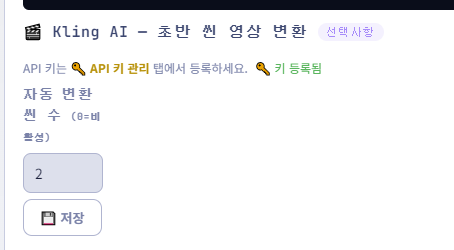
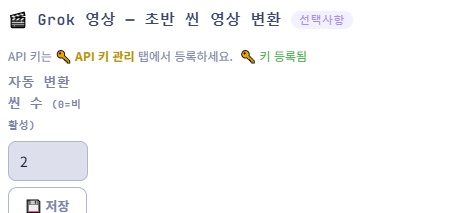
사용설명서 영상 전환 API를 Kling에서 Grok(xAI)로 변경 — 4-5 Grok API 키 발급·결제 안내 신규, 영상전환 버튼/에이전트 설정 안내 및 화면 이미지 교체

Changed region(s): [[0.0, 0.0, 1.0, 0.169], [0.0, 0.338, 0.2467, 1.0], [0.0, 0.2254, 0.7093, 0.3099]]

diff --git a/manual.html b/manual.html
@@ -50,7 +50,7 @@ p{font-size:14px;line-height:1.9;color:#ccc;margin-bottom:12px;padding:0 4px}
     <li class="sub"><a href="#sec-42-GROQ-API키-발급받기필수">4-2 GROQ API키 발급받기(필수)</a></li>
     <li class="sub"><a href="#sec-43-일레븐랩스-API키-발급받기선택">4-3 일레븐랩스 API키 발급받기(선택)</a></li>
     <li class="sub"><a href="#sec-44-유튜브-API키-발급받기필수">4-4 유튜브 API키 발급받기(필수)</a></li>
-    <li class="sub"><a href="#sec-45-Kling-AI-API키-발급받기선택">4-5 Kling AI API 키 발급 받기(선택)</a></li>
+    <li class="sub"><a href="#sec-45-Grok-API키-발급받기선택">4-5 Grok(xAI) 영상 API 키 발급 받기(선택)</a></li>
     <li><a href="#sec-5롱폼-전용프로그램-사용법">5.롱폼 전용프로그램 사용법</a></li>
     <li><a href="#sec-6쇼츠-전용프로그램-사용법">6.쇼츠 전용프로그램 사용법</a></li>
     <li><a href="#sec-7리서치센터-사용법">7.리서치센터 사용법</a></li>
@@ -110,7 +110,7 @@ p{font-size:14px;line-height:1.9;color:#ccc;margin-bottom:12px;padding:0 4px}
 <h2 id="sec-4API키-관리-탭-설정">4.API키 관리 탭 설정</h2>
 <p>프로그램 설치를 마치셨다면 필수로 3가지를 설정 하시면 바로 유튜브 영상 제작이 가능합니다. 바로 3가지 api 발급받기입니다. 4-1 OPENAI API키 발급 , 4-2 GROQ API키 발급 , 4-4 유튜브 API키 발급  이 3가지를 필수로 발급받아 프로그램내에 저장해서 보관하세요. 그러면 소재 발굴부터 대본, 이미지, 음성더빙, 자막, 랜더링까지 모두 다 할 수 있습니다. 음성 더빙은 기본값인 Edge TTS가 무료이며 키가 필요 없습니다.</p>
 <div class="img-wrap"><img src="imgs/n_apikey_long.png" loading="lazy" alt="API키 관리 탭 - 롱폼"></div>
-<p>위 화면은 롱폼 프로그램의 API키 관리 탭입니다. OpenAI API는 대본·이미지·썸네일·음성에 모두 쓰는 필수 키이고, Groq API는 자막 분할을 돕는 무료 필수 키입니다. ElevenLabs와 Kling AI는 선택 사항입니다. 쇼츠 프로그램도 같은 구성입니다.</p>
+<p>위 화면은 롱폼 프로그램의 API키 관리 탭입니다. OpenAI API는 대본·이미지·썸네일·음성에 모두 쓰는 필수 키이고, Groq API는 자막 분할을 돕는 무료 필수 키입니다. ElevenLabs와 Grok 영상 API(xAI)는 선택 사항입니다. 쇼츠 프로그램도 같은 구성입니다.</p>
 <div class="img-wrap"><img src="imgs/n_apikey_shorts.png" loading="lazy" alt="API키 관리 탭 - 쇼츠"></div>
 <h3 id="sec-41-OPENAI-API키-발급받기필수">4-1 OPENAI API키 발급받기(필수)</h3>
 <div style="margin:0 0 1.5rem 0;padding:1rem 1.4rem;background:rgba(251,146,60,0.08);border:1.5px solid rgba(251,146,60,0.4);border-radius:10px;">
@@ -218,30 +218,42 @@ p{font-size:14px;line-height:1.9;color:#ccc;margin-bottom:12px;padding:0 4px}
 <p>자 이제 유튜브 API 키가 생성되었습니다. 복사버튼을 눌러 NOBLE ARC 프로그램에 입력 저장해놓으시면 됩니다. 그래도 따로 보관해놓으시길 권장드립니다.</p>
 <div class="img-wrap"><img src="imgs/image79.png" loading="lazy" alt="스크린샷"></div>
 <p>유튜브 API키는 다른 API키와는 다르게 리서치센터에 저장공간이 따로 있습니다. 여기서 키를 관리하시면 됩니다. 리서치센터 전용 API키입니다.</p>
-<h3 id="sec-45-Kling-AI-API키-발급받기선택">4-5 Kling AI API 키 발급 받기(선택) <span style="font-size:0.75em;color:#a78bfa;font-weight:600;background:rgba(167,139,250,0.12);padding:2px 10px;border-radius:20px;vertical-align:middle;">선택사항</span></h3>
+<h3 id="sec-45-Grok-API키-발급받기선택">4-5 Grok(xAI) 영상 API 키 발급 받기(선택) <span style="font-size:0.75em;color:#a78bfa;font-weight:600;background:rgba(167,139,250,0.12);padding:2px 10px;border-radius:20px;vertical-align:middle;">선택사항</span></h3>
 <div style="margin:0 0 1.5rem 0;padding:1rem 1.4rem;background:rgba(251,146,60,0.08);border:1.5px solid rgba(251,146,60,0.4);border-radius:10px;">
   <p style="margin:0;color:#fb923c;font-size:13.5px;font-weight:600;line-height:1.8;">이 API키 발급은 유료 선택사항입니다. 별도로 각 해당 사이트에서 별도 결제하셔서 이용하시는 사항입니다. 참고하시고 이용하시기 바랍니다.</p>
 </div>
-<p>Kling AI API 키는 NOBLE ARC 씬편집기에서 이미지를 즉석에서 영상으로 전환하는 기능을 사용하기 위해 필요합니다. 선택사항이며, 사용을 원하시는 분만 발급받으시면 됩니다.</p>
-<p>먼저 개발자용 콘솔로 이동합니다:</p>
-<p>👉 <strong>https://app.klingai.com/global/dev</strong></p>
-<p>여기서 로그인 또는 회원가입을 진행하세요. (Google / Apple / 이메일 가능)</p>
-<div class="img-wrap"><img src="imgs/image194.png" loading="lazy" alt="스크린샷"></div>
-<p>Kling AI 개발자 플랫폼 메인 화면입니다. 우측 상단의 <strong>Sign In</strong> 버튼을 클릭하여 회원가입 또는 로그인을 진행합니다.</p>
-<div class="img-wrap"><img src="imgs/image195.png" loading="lazy" alt="스크린샷"></div>
-<p>로그인 후 메인 화면으로 돌아오면 중앙에 <strong>Go to Console</strong> 버튼이 있습니다. 해당 버튼을 클릭합니다.</p>
-<div class="img-wrap"><img src="imgs/image196.png" loading="lazy" alt="스크린샷"></div>
-<p>처음 접속하면 Kling AI Developer Console 환영 화면이 뜹니다. 하단의 <strong>Get Started</strong> 버튼을 클릭하여 시작합니다.</p>
-<div class="img-wrap"><img src="imgs/image197.png" loading="lazy" alt="스크린샷"></div>
-<p>API Keys 관리 화면입니다. 우측 상단에 있는 <strong>+ Create a new API Key</strong> 버튼을 클릭합니다.</p>
-<div class="img-wrap"><img src="imgs/image198.png" loading="lazy" alt="스크린샷"></div>
-<p>키 생성 팝업이 뜨면 관리하기 편한 아무 이름이나 입력한 후 <strong>Confirm</strong> 버튼을 클릭합니다.</p>
-<div class="img-wrap"><img src="imgs/image199.png" loading="lazy" alt="스크린샷"></div>
-<p>API 키가 생성되면 <strong>Access Key</strong>와 <strong>Secret Key</strong>가 표시됩니다. <strong>Copy All</strong> 버튼을 눌러 키를 복사한 후 반드시 따로 보관해 주세요. Secret Key는 이 화면에서만 확인 가능하며 이후에는 다시 볼 수 없습니다. 복사한 키를 NOBLE ARC 프로그램의 API 키 입력란에 붙여넣기 하시면 됩니다.</p>
-<div class="img-wrap"><img src="imgs/image200.png" loading="lazy" alt="스크린샷"></div>
-<p>API 키를 발급받으셨다면 이제 요금제 결제가 필요합니다. 메인 화면에서 상단의 <strong>Pricing</strong> 버튼을 클릭합니다.</p>
-<div class="img-wrap"><img src="imgs/image201.png" loading="lazy" alt="스크린샷"></div>
-<p>요금제 선택 화면입니다. 처음 이용하시는 분은 <strong>Trial Package $9.8 (100유닛)</strong> 가장 낮은 요금제를 추천드립니다. 원하시는 요금제를 선택하여 결제하시면 그때부터 바로 사용 가능합니다.</p>
+<p>Grok(xAI) 영상 API 키는 NOBLE ARC 씬편집기에서 이미지를 즉석에서 영상으로 전환하는 기능(롱폼·쇼츠 공통)과, 롱폼 AI 에이전트의 초반 씬 자동 영상 변환 기능을 사용하기 위해 필요합니다. 선택사항이며, 사용을 원하시는 분만 발급받으시면 됩니다. 영상은 씬(음성) 길이에 맞춰 자동으로 생성됩니다.</p>
+<p>먼저 구글에서 <strong>grok api</strong>를 검색합니다.</p>
+<div class="img-wrap"><img src="imgs/grok_api_01.png" loading="lazy" alt="grok api 구글 검색"></div>
+<p>검색 결과 맨 위에 나오는 xAI 공식 사이트(<strong>https://x.ai/api</strong>)를 클릭합니다.</p>
+<div class="img-wrap"><img src="imgs/grok_api_02.png" loading="lazy" alt="grok api 검색 결과"></div>
+<p>xAI API 소개 화면입니다. 왼쪽의 <strong>Get your API key</strong> 버튼을 클릭합니다.</p>
+<div class="img-wrap"><img src="imgs/grok_api_03.png" loading="lazy" alt="Get your API key 버튼"></div>
+<p>로그인 화면이 나오면 Google, X, Apple, GitHub 계정 중 편하신 방법으로 로그인하거나 이메일로 가입합니다. 처음이시라면 하단의 Sign up으로 회원가입을 먼저 진행하시면 됩니다.</p>
+<div class="img-wrap"><img src="imgs/grok_api_04.png" loading="lazy" alt="xAI 로그인 화면"></div>
+<p>구글 계정으로 진행하는 경우 사용하실 계정을 선택해 주시면 됩니다.</p>
+<div class="img-wrap"><img src="imgs/grok_api_05.png" loading="lazy" alt="구글 계정 선택"></div>
+<p>로그인이 끝나면 xAI 콘솔(console.x.ai) 대시보드가 열립니다. 왼쪽 메뉴의 <strong>API Keys</strong>를 클릭하거나, 오른쪽 위의 <strong>Create API key</strong> 버튼을 클릭하면 됩니다.</p>
+<div class="img-wrap"><img src="imgs/grok_api_06.png" loading="lazy" alt="xAI 콘솔 대시보드"></div>
+<p>API keys 화면입니다. 오른쪽 위의 <strong>Create API key</strong> 버튼을 클릭합니다.</p>
+<div class="img-wrap"><img src="imgs/grok_api_07.png" loading="lazy" alt="API keys 화면"></div>
+<p>키 이름을 입력하는 창이 뜨면 관리하기 편한 아무 이름이나 입력한 후 <strong>Create API key</strong> 버튼을 클릭합니다.</p>
+<div class="img-wrap"><img src="imgs/grok_api_08.png" loading="lazy" alt="API 키 이름 입력"></div>
+<p>이름 아래의 <strong>Advanced settings</strong>를 펼치면 사용할 모델·엔드포인트 제한, 분당 사용량 제한, 만료일을 정할 수 있습니다. 특별한 이유가 없다면 기본값(All models / All endpoints / No expiry) 그대로 두고 생성하시면 됩니다.</p>
+<div class="img-wrap"><img src="imgs/grok_api_09.png" loading="lazy" alt="Advanced settings"></div>
+<p>API 키가 생성되었습니다. 이 화면에서만 키 전체를 확인할 수 있으며 닫으면 다시 볼 수 없습니다. <strong>Copy API Key</strong> 버튼을 눌러 키를 복사한 후 반드시 따로 보관해 주세요. 복사한 키를 NOBLE ARC 프로그램의 <strong>API 키 관리</strong> 탭 → <strong>Grok 영상 API (xAI)</strong> 칸에 붙여넣고 저장하시면 됩니다.</p>
+<div class="img-wrap"><img src="imgs/grok_api_10.png" loading="lazy" alt="API 키 복사"></div>
+<p>만들어 둔 키는 API keys 목록에서 확인할 수 있습니다. 오른쪽 점 세 개 메뉴에서 키를 일시 중지(Disable)하거나 새로 교체(Rotate), 삭제(Delete)할 수 있으니 키가 유출되었다고 의심되면 바로 삭제하고 새 키를 발급받으세요.</p>
+<div class="img-wrap"><img src="imgs/grok_api_11.png" loading="lazy" alt="API 키 목록 및 관리 메뉴"></div>
+<p>API 키를 발급받으셨다면 이제 크레딧 충전(결제)이 필요합니다. 콘솔 화면 왼쪽 맨 아래에 남은 크레딧이 표시된 버튼이 있습니다. 이 버튼을 클릭합니다.</p>
+<div class="img-wrap"><img src="imgs/grok_api_12.png" loading="lazy" alt="크레딧 결제 버튼"></div>
+<p>Billing(결제) 화면입니다. 현재 남은 크레딧을 확인할 수 있고, <strong>Add credits</strong> 버튼으로 크레딧을 충전합니다. 결제 카드는 <strong>Add payment method</strong>로 등록합니다. <strong>Manage auto top-up</strong>을 켜 두면 잔액이 정한 금액 이하로 떨어질 때 자동으로 충전되므로, 원하지 않으시면 설정을 꼭 확인하세요.</p>
+<div class="img-wrap"><img src="imgs/grok_api_13.png" loading="lazy" alt="Billing 화면"></div>
+<p>결제 수단 등록 창입니다. 카드 번호, 유효기간, CVC를 입력하고 국가를 선택한 후 <strong>Add</strong> 버튼을 클릭합니다.</p>
+<div class="img-wrap"><img src="imgs/grok_api_14.png" loading="lazy" alt="결제 수단 추가"></div>
+<p>충전할 금액을 선택합니다. $5 / $10 / $20 중에서 고르거나 원하는 금액을 직접 입력할 수 있습니다. 창 아래쪽에 선택한 금액으로 사용할 수 있는 대략적인 분량(예: $5는 영상 약 2.8분)이 안내됩니다. 처음 이용하시는 분은 가장 낮은 금액인 $5로 먼저 테스트해 보시길 추천드립니다. 금액을 정하고 하단의 결제 버튼을 누르면 충전이 완료되고 바로 사용할 수 있습니다.</p>
+<div class="img-wrap"><img src="imgs/grok_api_15.png" loading="lazy" alt="크레딧 충전"></div>
+<p>키 저장 후에는 <strong>연결 테스트</strong> 버튼으로 키가 정상인지 확인할 수 있습니다. 이후 씬편집기의 <strong>Grok 영상전환</strong> 버튼을 누르면 해당 씬의 이미지가 영상으로 변환되며, 롱폼 AI 에이전트에서는 <strong>초반 씬 영상 변환</strong>의 자동 변환 씬 수를 설정하시면 됩니다.</p>
 <h2 id="sec-5롱폼-전용프로그램-사용법">5.롱폼 전용프로그램 사용법</h2>
 <p>지금부터 NOBLE ARC 롱폼 유튜브 자동화 프로그램 사용법에 대해서 자세히 설명드리겠습니다.</p>
 <p>저희 NOBLE ARC 롱폼 유튜브 자동화 프로그램은 상당히 직관적이고 단순한 인터페이스를 가지고 있어서 조금만 사용하셔도 금방 익숙해지실 수 있습니다. 그러면서도 많은 기능을 담고 있습니다. 타사 대비 더 많은 기능을 가지고 있는 프로그램입니다. 지금 부터 시작합니다.</p>
@@ -525,7 +537,7 @@ p{font-size:14px;line-height:1.9;color:#ccc;margin-bottom:12px;padding:0 4px}
   <li>가운데 모델 선택 드롭다운(예: Video 1.5 Pro)과 오른쪽 <strong>영상 길이</strong>(예: 12초)를 원하시는 대로 설정합니다.</li>
   <li>입력창에 영상 프롬프트(씬편집기에서 자동 복사된 프롬프트를 붙여넣기)를 넣고 전송 버튼을 누르면 영상 생성이 시작됩니다.</li>
 </ul>
-<p>생성이 완료되면 Library 탭에서 영상을 다운로드하신 후, NOBLE ARC 씬편집기의 <strong>업로드</strong> 버튼으로 등록하시면 됩니다. Kling API처럼 별도 API 키 발급이나 결제 없이도 무료로 이미지를 영상으로 전환하고 싶으신 분들께 추천드리는 방법입니다.</p>
+<p>생성이 완료되면 Library 탭에서 영상을 다운로드하신 후, NOBLE ARC 씬편집기의 <strong>업로드</strong> 버튼으로 등록하시면 됩니다. Grok API처럼 별도 API 키 발급이나 결제 없이도 무료로 이미지를 영상으로 전환하고 싶으신 분들께 추천드리는 방법입니다.</p>
 <p>여기까지 NOBLE ARC 유튜브 자동화 쇼츠 전용 프로그램에 대한 사용법 설명을 마치겠습니다.</p>
 <h2 id="sec-7리서치센터-사용법">7.리서치센터 사용법</h2>
 <div class="img-wrap"><img src="imgs/image142.png" loading="lazy" alt="스크린샷"></div>
@@ -695,24 +707,24 @@ p{font-size:14px;line-height:1.9;color:#ccc;margin-bottom:12px;padding:0 4px}
 <p>각자 사용하시는 영상 제작 AI 서비스가 있다면 그것을 이용하시거나 제가 추천드리는 서비스를 이용하시면 될거 같습니다.</p>
 <p><strong>🎥 이미지-투-비디오 구독 서비스 가성비 Top 5</strong></p>
 <ul>
-  <li><strong>1. Kling AI</strong> — NOBLE ARC 프로그램과 API 직접 연동 지원. 트라이얼 패키지 $9.8(100유닛)부터 시작 가능. 자연스러운 움직임과 높은 프롬프트 이해력이 특징이며 가성비가 뛰어납니다.</li>
+  <li><strong>1. Grok Imagine (xAI)</strong> — NOBLE ARC 프로그램과 API 직접 연동 지원. 크레딧을 선불로 충전해 쓰는 방식이며 영상 길이(초)만큼 과금됩니다. 자연스러운 움직임이 특징이며 씬 길이에 맞춰 영상이 생성됩니다.</li>
   <li><strong>2. Runway</strong> — Gen-3 Alpha 모델 탑재. 월 $15 Standard 플랜부터 이용 가능. 안정적인 품질과 직관적인 편집 인터페이스를 제공합니다.</li>
   <li><strong>3. Pika Labs</strong> — 월 $8부터 시작하는 저렴한 요금제. 빠른 생성 속도와 간단한 사용법으로 입문자에게 적합합니다.</li>
   <li><strong>4. Luma AI (Dream Machine)</strong> — 사실적인 영상 품질이 장점. 월 $29.99 플랜 제공. 일부 무료 크레딧으로 먼저 체험해 볼 수 있습니다.</li>
   <li><strong>5. Hailuo AI (MiniMax)</strong> — 무료 크레딧 제공으로 초기 비용 없이 체험 가능. 합리적인 가격대로 부담 없이 시작할 수 있습니다.</li>
 </ul>
-<p>위의 서비스들은 그나마 저렴한 영상 제작 도구입니다. 이미지를 영상으로 전환해주는 기능이 있습니다. NOBLE ARC 유튜브 자동화 프로그램은 씬편집기에서 kling 영상전환 버튼을 누르면 이미지가 바로 즉석에서 영상으로 변환되는 기능을 지원하고 있습니다. 이 기능을 사용하고자 하신다면 kling ai api 키를 따로 발급받으셔야 합니다. 단 선택사항이며 해당 사이트에서 별도로 유료요금제에 가입하셔야 사용하실 수 있습니다. kling ai api 키를 발급 받는 방법은 4번 섹션 api키 관리 탭 설정 설명서를 참고하시기 바랍니다. 하지만 API를 이용해서 영상으로 전환하는 것보다 프로그램에서 생성된 이미지를 사이트에서 직접 영상으로 전환하여 NOBLE ARC 프로그램에 재업로드 하시는 방식이 가장 저렴합니다. 비용부분 때문에라도 이렇게 안내를 먼저 해드리고 있습니다.</p>
+<p>위의 서비스들은 그나마 저렴한 영상 제작 도구입니다. 이미지를 영상으로 전환해주는 기능이 있습니다. NOBLE ARC 유튜브 자동화 프로그램은 씬편집기에서 Grok 영상전환 버튼을 누르면 이미지가 바로 즉석에서 영상으로 변환되는 기능을 지원하고 있습니다. 이 기능을 사용하고자 하신다면 Grok(xAI) 영상 API 키를 따로 발급받으셔야 합니다. 단 선택사항이며 xAI 사이트에서 별도로 크레딧을 충전하셔야 사용하실 수 있습니다. Grok API 키를 발급 받는 방법은 4번 섹션 api키 관리 탭 설정 설명서(4-5)를 참고하시기 바랍니다. 하지만 API를 이용해서 영상으로 전환하는 것보다 프로그램에서 생성된 이미지를 사이트에서 직접 영상으로 전환하여 NOBLE ARC 프로그램에 재업로드 하시는 방식이 가장 저렴합니다. 비용부분 때문에라도 이렇게 안내를 먼저 해드리고 있습니다.</p>
 
-<h3 style="font-size:17px;border-left:3px solid #7c4dff;background:rgba(124,77,255,.08);color:#b39ddb;margin-top:40px;">🎥 영상 프롬프트 생성 기능 (Kling 영상전환 연동)</h3>
-<p>씬편집기에는 <strong>영상 프롬프트</strong>라는 별도 입력란이 이미지 프롬프트 바로 아래에 있습니다. 이 영상 프롬프트는 대본 내용을 반영하면서 카메라무빙(팬, 틸트, 줌, 트래킹 등)과 화면 속 움직임·변화가 풍부하게 들어가도록 AI가 자동으로 작성해주는 문구입니다. 이 프롬프트가 <strong>Kling 영상전환 버튼을 누를 때 실제로 그대로 사용</strong>되어, 더 자연스럽고 역동적인 움직임의 영상이 만들어집니다.</p>
+<h3 style="font-size:17px;border-left:3px solid #7c4dff;background:rgba(124,77,255,.08);color:#b39ddb;margin-top:40px;">🎥 영상 프롬프트 생성 기능 (Grok 영상전환 연동)</h3>
+<p>씬편집기에는 <strong>영상 프롬프트</strong>라는 별도 입력란이 이미지 프롬프트 바로 아래에 있습니다. 이 영상 프롬프트는 대본 내용을 반영하면서 카메라무빙(팬, 틸트, 줌, 트래킹 등)과 화면 속 움직임·변화가 풍부하게 들어가도록 AI가 자동으로 작성해주는 문구입니다. 이 프롬프트가 <strong>Grok 영상전환 버튼을 누를 때 실제로 그대로 사용</strong>되어, 더 자연스럽고 역동적인 움직임의 영상이 만들어집니다.</p>
 <p>영상 프롬프트를 만드는 버튼은 두 가지입니다.</p>
-<div class="img-wrap"><img src="imgs/kling_video_prompt_buttons.png" loading="lazy" alt="영상 프롬프트 생성 버튼 - 전체 씬 및 개별 씬"></div>
+<div class="img-wrap"><img src="imgs/grok_video_prompt_buttons.png" loading="lazy" alt="영상 프롬프트 생성 버튼 - 전체 씬 및 개별 씬"></div>
 <ul>
   <li><strong>전체 씬 영상 프롬프트 생성</strong> (화면 상단) — 여러 씬을 한꺼번에 영상으로 전환하실 계획이라면 이 버튼을 눌러 모든 씬의 영상 프롬프트를 한 번에 생성하세요.</li>
   <li><strong>영상 프롬프트 생성</strong> (각 씬 카드 하단) — 몇몇 씬만 골라서 영상으로 전환하실 경우, 해당 씬에서만 개별로 버튼을 눌러 생성하시면 됩니다.</li>
 </ul>
-<p>버튼을 누르지 않고 바로 <strong>Kling 영상전환</strong> 버튼을 눌러도 괜찮습니다 — 영상 프롬프트가 비어있으면 변환 시점에 자동으로 생성되어 사용됩니다. 물론 미리 생성해서 내용을 직접 확인하거나 수정하고 싶으신 분들을 위해 두 버튼을 별도로 제공해드리고 있습니다.</p>
-<p>또한 이 영상 프롬프트는 이미지 프롬프트와 마찬가지로 화면에 그대로 표시되기 때문에, Kling API를 사용하지 않고 <strong>FLOW·Google Vids·RUNWAY 등 외부 영상 제작 사이트에서 직접 영상을 만드실 때도 복사해서 활용</strong>하실 수 있습니다.</p>
+<p>버튼을 누르지 않고 바로 <strong>Grok 영상전환</strong> 버튼을 눌러도 괜찮습니다 — 영상 프롬프트가 비어있으면 변환 시점에 자동으로 생성되어 사용됩니다. 물론 미리 생성해서 내용을 직접 확인하거나 수정하고 싶으신 분들을 위해 두 버튼을 별도로 제공해드리고 있습니다.</p>
+<p>또한 이 영상 프롬프트는 이미지 프롬프트와 마찬가지로 화면에 그대로 표시되기 때문에, Grok API를 사용하지 않고 <strong>FLOW·Google Vids·RUNWAY 등 외부 영상 제작 사이트에서 직접 영상을 만드실 때도 복사해서 활용</strong>하실 수 있습니다.</p>
 
 <div class="img-wrap"><img src="imgs/image185.png" loading="lazy" alt="스크린샷"></div>
 <p>제가 이용하는 서비스는 FLOW 입니다. 이 서비스도 꽤 괜찮습니다 특히 제미나이 AI 유료모델을 구독중이시라면 제공되는 크레딧을 이용하시면 FLOW에서 많은 영상을 제작하실 수 있습니다.</p>
@@ -748,7 +760,7 @@ p{font-size:14px;line-height:1.9;color:#ccc;margin-bottom:12px;padding:0 4px}
 </ul>
 <p>YouTube API 할당량과 관련하여 중요한 사항을 안내드립니다. 구글에서 제공하는 YouTube API는 하루 사용량에 제한이 있으며, 1개의 구글 계정으로는 5개 이하의 채널 운영을 권장합니다. 또한 채널당 하루 업로드 횟수는 5회 이내로 설정하시는 것이 안정적입니다. 이 기준을 초과하면 API 할당량이 소진되어 업로드가 일시 중단될 수 있으니 참고하시기 바랍니다.</p>
 <div class="img-wrap"><img src="imgs/image205.png" loading="lazy" alt="스크린샷"></div>
-<p>Kling AI를 이용한 초반 씬 영상 변환 기능은 선택 사항입니다. 이 기능을 사용하시려면 목차 4-5번의 Kling AI API 키 발급 안내를 먼저 참고하시기 바랍니다. 초반 씬 변환 개수를 0으로 설정하면 카메라 효과만 적용되며, Kling AI를 사용하지 않습니다.</p>
+<p>Grok(xAI)를 이용한 초반 씬 영상 변환 기능은 선택 사항입니다. 이 기능을 사용하시려면 목차 4-5번의 Grok(xAI) 영상 API 키 발급 안내를 먼저 참고하시기 바랍니다. 초반 씬 변환 개수를 0으로 설정하면 카메라 효과만 적용되며, Grok 영상 변환을 사용하지 않습니다.</p>
 <div class="img-wrap"><img src="imgs/image206.png" loading="lazy" alt="스크린샷"></div>
 <p>댓글 자동 관리 기능은 활성/비활성 중에서 선택할 수 있으며, 댓글에 답변할 말투 스타일도 함께 설정할 수 있습니다. 활성으로 설정하면 AI가 댓글을 분석하여 적절한 답변을 자동으로 작성합니다.</p>
 <div class="img-wrap"><img src="imgs/image207.png" loading="lazy" alt="스크린샷"></div>
